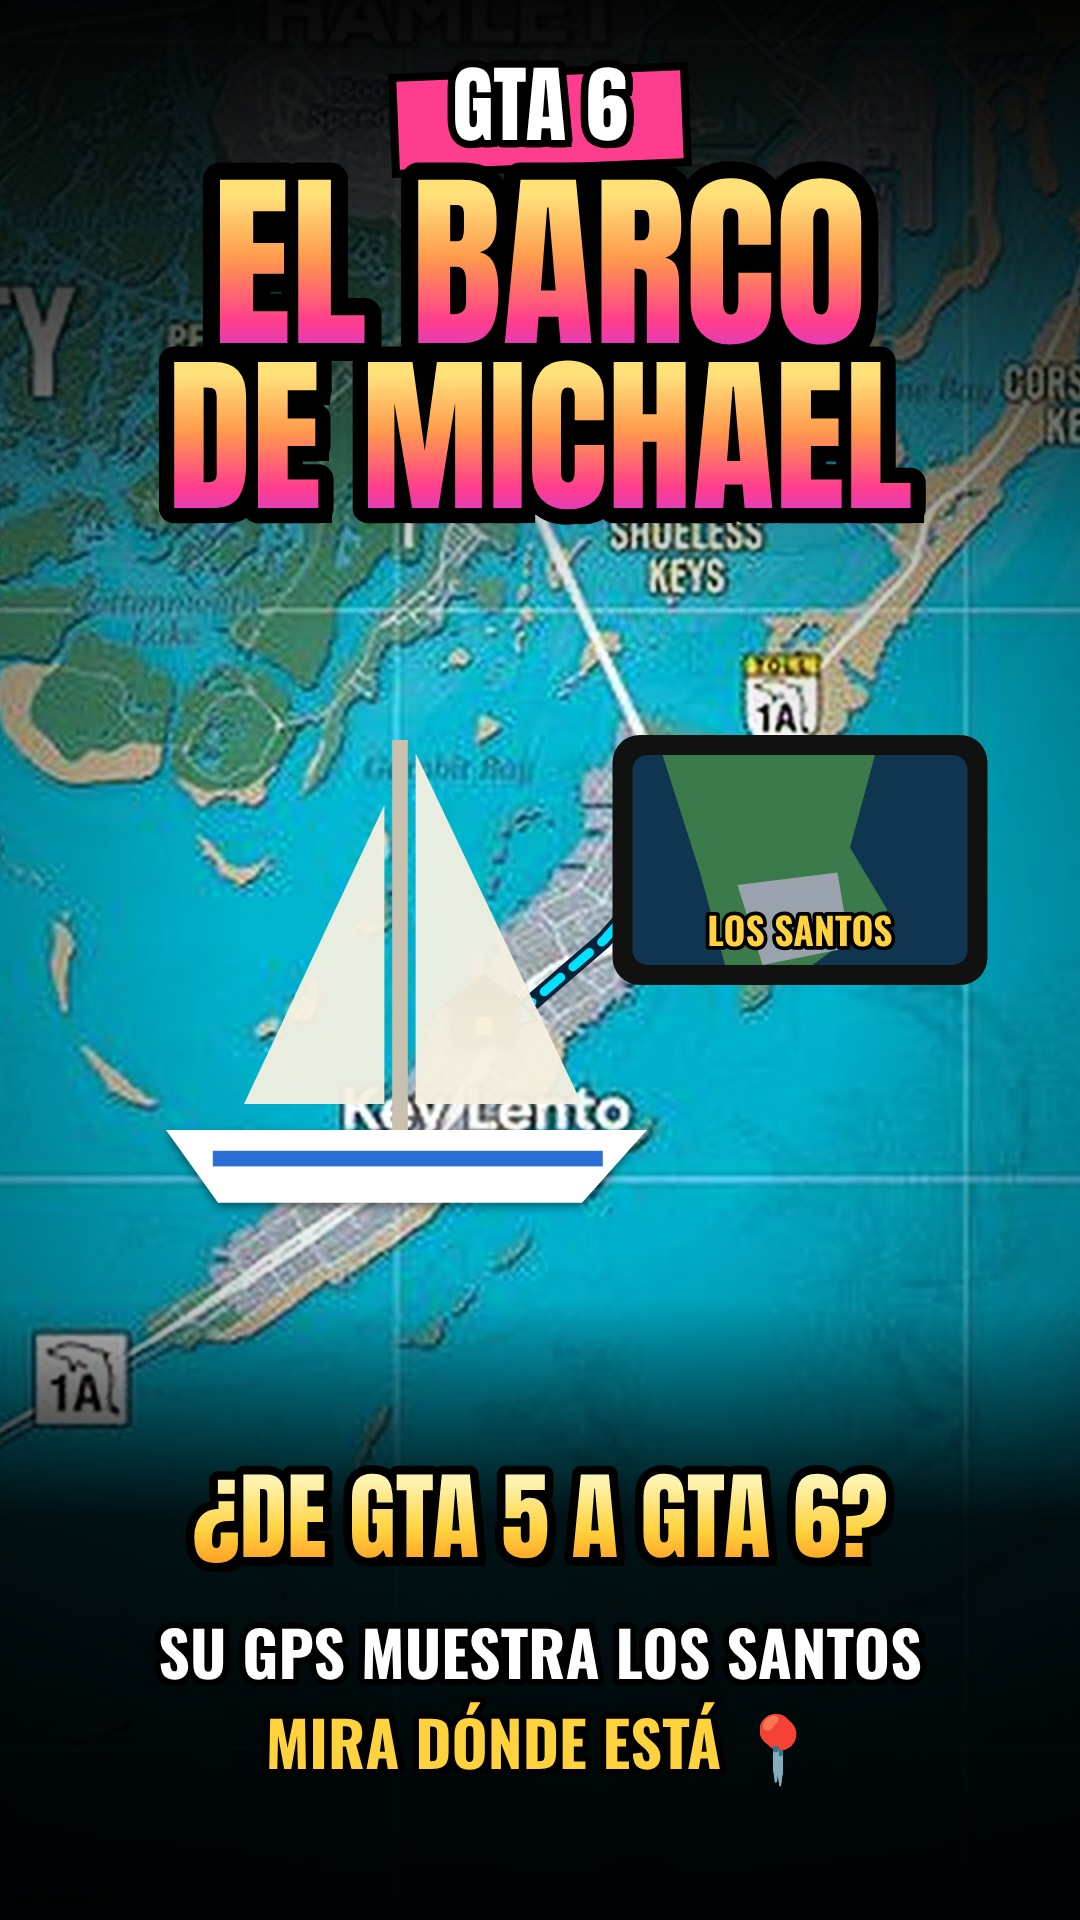
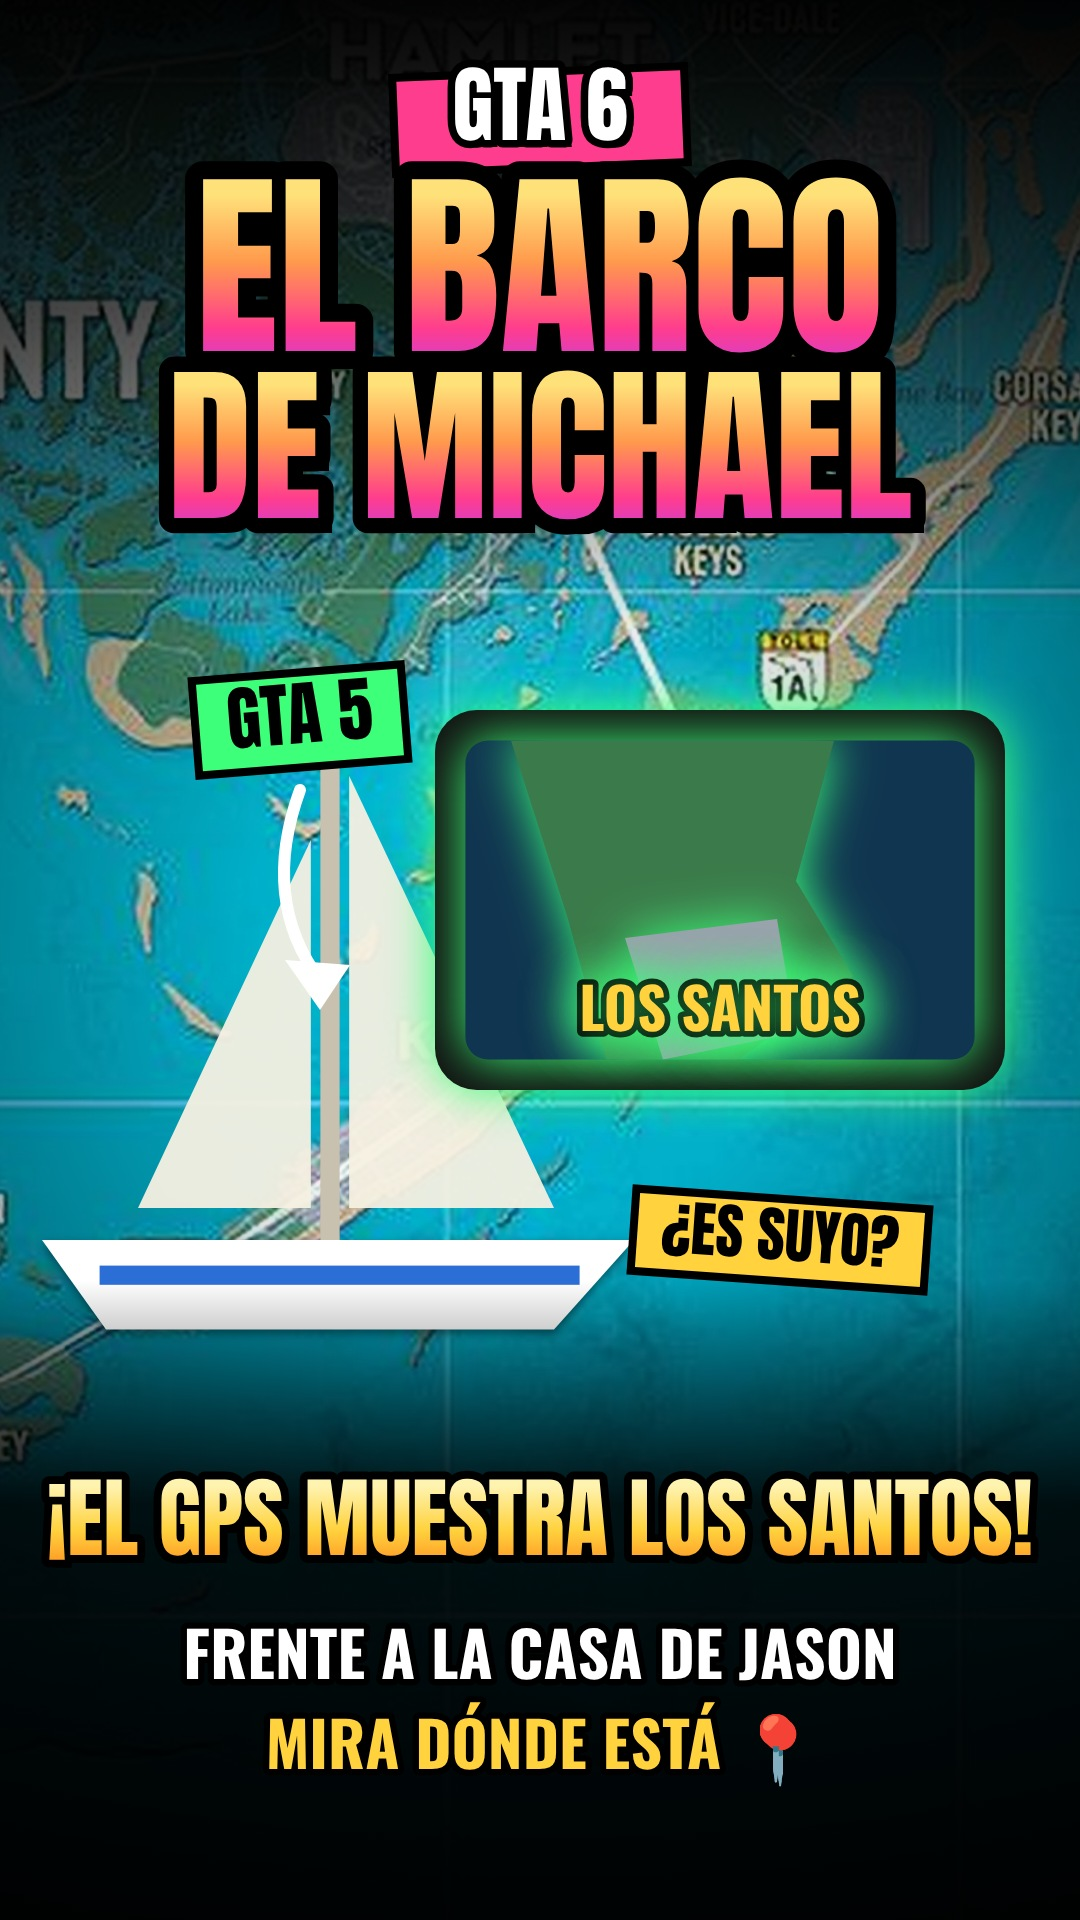
Rediseñar las portadas de Dexter, la torre de radio y el barco de Michael
Claude-Session: https://claude.ai/code/session_01JhfAMvS4QDrrdcmsQyrZs5

diff --git a/gta6/torre-radio/escenas.js b/gta6/torre-radio/escenas.js
@@ -99,21 +99,30 @@ function drawAnim(t) {
 }
 
 function drawCover() {
-  performance_t = 1; cam = { cx: 766, cy: 1190, s: 4.2 }; drawMap();
-  const v = x.createRadialGradient(W/2, H/2, 300, W/2, H/2, 1150); v.addColorStop(0, 'rgba(0,0,0,0)'); v.addColorStop(1, 'rgba(0,0,0,.8)');
-  x.fillStyle = v; x.fillRect(0, 0, W, H);
-  route([HAM, MID, [784, 1225], [TORRE[0] + 8, TORRE[1] + 6]], 1, CYAN);
-  const [tx, ty] = S(TORRE);
-  torre(TORRE, 2.4, 1);
-  nido(tx, ty - 640, 1.6, 1);
-  huevo(tx + 230, ty - 380, 2.6, '#ff5fa2', '#ffe17a', .5);
-  const g = x.createLinearGradient(0, 0, 0, 560); g.addColorStop(0, 'rgba(0,0,0,.92)'); g.addColorStop(1, 'rgba(0,0,0,0)'); x.fillStyle = g; x.fillRect(0, 0, W, 560);
-  x.save(); x.translate(W/2, 120); x.rotate(-.04); x.fillStyle = '#000'; x.fillRect(-150, -52, 300, 104); x.fillStyle = '#ff3d8e'; x.fillRect(-142, -44, 284, 88); x.restore();
-  glow('GTA 6', W/2, 116, 84, WHITE);
-  glow('HUEVO DE', W/2, 290, 190, PINK);
-  glow('PASCUA', W/2, 460, 190, PINK);
-  const g2 = x.createLinearGradient(0, H - 620, 0, H); g2.addColorStop(0, 'rgba(0,0,0,0)'); g2.addColorStop(.35, 'rgba(0,0,0,.85)'); g2.addColorStop(1, 'rgba(0,0,0,.95)'); x.fillStyle = g2; x.fillRect(0, H - 620, W, 620);
-  glow('EN LA TORRE MÁS ALTA', W/2, 1530, 92, GOLD, 1, ['#fff3b0', '#ffd23e', '#ff8a1e']);
-  text('Cinemática secreta', W/2, 1660, 62, WHITE);
-  text('Paso a paso 📍', W/2, 1750, 62, GOLD);
+  performance_t = 0.6; cam = { cx: 790, cy: 1150, s: 3.2 }; drawMap();
+  viñeta('rgba(0,0,0,.75)');
+  // cielo de atardecer sobre el mapa
+  const sky = x.createLinearGradient(0, 0, 0, H); sky.addColorStop(0, 'rgba(180,60,255,.35)'); sky.addColorStop(.5, 'rgba(255,61,142,.18)'); sky.addColorStop(1, 'rgba(255,154,77,0)');
+  x.fillStyle = sky; x.fillRect(0, 0, W, H);
+  // torre grande completa
+  x.save(); x.translate(380, 1420); x.scale(3.0, 3.0);
+  const h = 260;
+  x.shadowColor = 'rgba(0,0,0,.5)'; x.shadowBlur = 20;
+  for (let i = 0; i < 8; i++) {
+    const y0 = -i * h / 8, y1 = -(i + 1) * h / 8, w0 = 26 - i * 2.6, w1 = 26 - (i + 1) * 2.6;
+    x.fillStyle = i % 2 ? '#ffffff' : '#e8304a';
+    x.beginPath(); x.moveTo(-w0, y0); x.lineTo(w0, y0); x.lineTo(w1, y1); x.lineTo(-w1, y1); x.closePath(); x.fill();
+  }
+  x.shadowBlur = 0; x.restore();
+  // nido arriba con brillo
+  x.save(); x.shadowColor = '#ffe17a'; x.shadowBlur = 60; nido(380, 640, 1.5, 1); x.restore();
+  // huevo cayendo con estela
+  x.save(); x.strokeStyle = 'rgba(255,255,255,.8)'; x.lineWidth = 8; x.setLineDash([6, 18]);
+  x.beginPath(); x.moveTo(430, 640); x.quadraticCurveTo(720, 560, 790, 1020); x.stroke(); x.restore();
+  huevo(800, 1080, 4.2, '#ff5fa2', '#ffe17a', .5);
+  // reloj 7:00
+  x.save(); x.fillStyle = 'rgba(4,25,45,.92)'; rr(640, 1200, 330, 140, 30); x.fill(); x.strokeStyle = CYAN; x.lineWidth = 6; x.stroke(); x.restore();
+  glow('⏱ 7:00', 805, 1272, 84, WHITE);
+  portadaArriba('HUEVO DE', 'PASCUA', null, 210, 210);
+  portadaAbajo('EN LA TORRE MÁS ALTA', 'Cinemática secreta 🎬', 'Paso a paso 📍');
 }

diff --git a/gta6/dexter/escenas.js b/gta6/dexter/escenas.js
@@ -99,19 +99,24 @@ function drawAnim(t) {
 }
 
 function drawCover() {
-  performance_t = 1; cam = { cx: 1124, cy: 815, s: 4.6 }; drawMap();
-  const v = x.createRadialGradient(W/2, H/2, 300, W/2, H/2, 1150); v.addColorStop(0, 'rgba(0,0,0,0)'); v.addColorStop(1, 'rgba(0,0,0,.8)');
-  x.fillStyle = v; x.fillRect(0, 0, W, H);
-  route([VC, PEN, WI], 1, CYAN); edificio(APT, 1.4, 1);
-  x.save(); x.fillStyle = 'rgba(120,0,0,.25)'; x.fillRect(0, 0, W, H); x.restore();
-  kitDexter(560, 1180, 3.4, 1);
-  const g = x.createLinearGradient(0, 0, 0, 560); g.addColorStop(0, 'rgba(0,0,0,.92)'); g.addColorStop(1, 'rgba(0,0,0,0)'); x.fillStyle = g; x.fillRect(0, 0, W, 560);
-  x.save(); x.translate(W/2, 120); x.rotate(-.04); x.fillStyle = '#000'; x.fillRect(-150, -52, 300, 104); x.fillStyle = '#ff3d8e'; x.fillRect(-142, -44, 284, 88); x.restore();
-  glow('GTA 6', W/2, 116, 84, WHITE);
-  glow('DEXTER', W/2, 300, 240, PINK, 1, ['#ffffff', '#ff6b6b', '#c4001a']);
-  glow('ESTÁ AQUÍ', W/2, 480, 150, PINK);
-  const g2 = x.createLinearGradient(0, H - 620, 0, H); g2.addColorStop(0, 'rgba(0,0,0,0)'); g2.addColorStop(.35, 'rgba(0,0,0,.85)'); g2.addColorStop(1, 'rgba(0,0,0,.95)'); x.fillStyle = g2; x.fillRect(0, H - 620, W, 620);
-  glow('🔪 SU DEPARTAMENTO', W/2, 1530, 96, GOLD, 1, ['#fff3b0', '#ffd23e', '#ff8a1e']);
-  text('Ruta exacta en el mapa', W/2, 1660, 62, WHITE);
-  text('Paso a paso 📍', W/2, 1750, 62, GOLD);
+  performance_t = 1; cam = { cx: 1128, cy: 812, s: 6.2 }; drawMap();
+  night(1.6); viñeta('rgba(0,0,0,.85)', 'rgba(150,0,10,.28)');
+  // edificio grande con la ventana marcada
+  x.save(); x.translate(W/2, 1080);
+  x.shadowColor = 'rgba(0,0,0,.6)'; x.shadowBlur = 40;
+  x.fillStyle = '#efe2c8'; x.fillRect(-300, -380, 600, 380);
+  x.shadowBlur = 0; x.fillStyle = '#ff7a59'; x.fillRect(-320, -400, 640, 26);
+  for (let r = 0; r < 3; r++) for (let c = 0; c < 5; c++) {
+    const hi = r === 1 && c === 0;
+    x.fillStyle = hi ? '#ffd23e' : '#1d4f68'; if (hi) { x.shadowColor = '#ffd23e'; x.shadowBlur = 50; }
+    x.fillRect(-262 + c * 108, -345 + r * 112, 66, 80); x.shadowBlur = 0;
+  }
+  x.strokeStyle = '#ff1a1a'; x.lineWidth = 12; x.shadowColor = '#ff1a1a'; x.shadowBlur = 30;
+  x.beginPath(); x.arc(-229, -193, 82, 0, 7); x.stroke();
+  x.restore();
+  sello(760, 760, 64, .08, '#ffd23e', 'SU PUERTA');
+  cuchilloRojo(830, 1180, 2.6, .5);
+  kitDexter(250, 1230, 2.0, 1);
+  portadaArriba('DEXTER', 'ESTÁ AQUÍ', ['#ffffff', '#ff6b6b', '#c4001a'], 240, 150);
+  portadaAbajo('TRINITY APARTMENTS', 'Ruta exacta en el mapa', 'Paso a paso 📍');
 }

diff --git a/gta6/motor/motor.js b/gta6/motor/motor.js
@@ -331,3 +331,43 @@ function etiqueta(p, s, dx, dy, color, a) {   // texto pegado a un punto del map
 }
 
 window.draw = T => drawAnim(warp(T));
+
+// ---------- portadas ----------
+function viñeta(color = 'rgba(0,0,0,.8)', tinte = null) {
+  const v = x.createRadialGradient(W/2, H/2, 260, W/2, H/2, 1150); v.addColorStop(0, 'rgba(0,0,0,0)'); v.addColorStop(1, color);
+  x.fillStyle = v; x.fillRect(0, 0, W, H);
+  if (tinte) { x.fillStyle = tinte; x.fillRect(0, 0, W, H); }
+}
+function portadaArriba(l1, l2, grad = null, s1 = 210, s2 = 190) {
+  const g = x.createLinearGradient(0, 0, 0, 600); g.addColorStop(0, 'rgba(0,0,0,.94)'); g.addColorStop(1, 'rgba(0,0,0,0)');
+  x.fillStyle = g; x.fillRect(0, 0, W, 600);
+  x.save(); x.translate(W/2, 120); x.rotate(-.04); x.fillStyle = '#000'; x.fillRect(-150, -52, 300, 104); x.fillStyle = '#ff3d8e'; x.fillRect(-142, -44, 284, 88); x.restore();
+  glow('GTA 6', W/2, 116, 84, WHITE);
+  glow(l1, W/2, 295, s1, PINK, 1, grad);
+  if (l2) glow(l2, W/2, 470, s2, PINK, 1, grad);
+}
+function portadaAbajo(grande, l1, l2, grad = ['#fff3b0', '#ffd23e', '#ff8a1e']) {
+  const g = x.createLinearGradient(0, H - 640, 0, H); g.addColorStop(0, 'rgba(0,0,0,0)'); g.addColorStop(.35, 'rgba(0,0,0,.86)'); g.addColorStop(1, 'rgba(0,0,0,.96)');
+  x.fillStyle = g; x.fillRect(0, H - 640, W, 640);
+  glow(grande, W/2, 1530, grande.length > 16 ? 88 : 100, GOLD, 1, grad);
+  text(l1, W/2, 1660, 62, WHITE);
+  text(l2, W/2, 1750, 62, GOLD);
+}
+function sello(px, py, s, rot, color, txt) {   // etiqueta tipo sticker
+  x.save(); x.translate(px, py); x.rotate(rot);
+  x.font = `${s}px ${FT}`; const w = x.measureText(txt).width + s * .8;
+  x.fillStyle = '#000'; x.fillRect(-w/2 - 8, -s * .62 - 8, w + 16, s * 1.24 + 16);
+  x.fillStyle = color; x.fillRect(-w/2, -s * .62, w, s * 1.24);
+  x.fillStyle = '#000'; x.textAlign = 'center'; x.textBaseline = 'middle'; x.fillText(txt, 0, s * .05);
+  x.restore();
+}
+function cuchilloRojo(px, py, s, rot) {
+  x.save(); x.translate(px, py); x.rotate(rot); x.scale(s, s);
+  x.shadowColor = '#ff1a1a'; x.shadowBlur = 40;
+  x.fillStyle = '#e9edf2'; x.beginPath(); x.moveTo(0, -80); x.quadraticCurveTo(18, -20, 11, 10); x.lineTo(-11, 10); x.quadraticCurveTo(-8, -30, 0, -80); x.fill();
+  x.shadowBlur = 0; x.fillStyle = '#c4001a';
+  x.beginPath(); x.moveTo(-6, -40); x.quadraticCurveTo(0, -20, 6, -5); x.lineTo(-4, -5); x.closePath(); x.fill();
+  x.beginPath(); x.ellipse(2, 30, 4, 9, 0, 0, 7); x.fill();
+  x.fillStyle = '#222'; x.fillRect(-22, 10, 44, 9); x.fillRect(-8, 19, 16, 44);
+  x.restore();
+}

diff --git a/gta6/barco-michael/escenas.js b/gta6/barco-michael/escenas.js
@@ -74,19 +74,18 @@ function drawAnim(t) {
 }
 
 function drawCover() {
-  performance_t = 1; cam = { cx: 790, cy: 1520, s: 4.0 }; drawMap();
-  const v = x.createRadialGradient(W/2, H/2, 300, W/2, H/2, 1150); v.addColorStop(0, 'rgba(0,0,0,0)'); v.addColorStop(1, 'rgba(0,0,0,.8)');
-  x.fillStyle = v; x.fillRect(0, 0, W, H);
-  route(RUTA, 1, CYAN); house(CASA, 1.4);
-  velero(400, 1130, 2.6, 1);
-  pantallaLS(800, 860, 1.25, 1);
-  const g = x.createLinearGradient(0, 0, 0, 560); g.addColorStop(0, 'rgba(0,0,0,.92)'); g.addColorStop(1, 'rgba(0,0,0,0)'); x.fillStyle = g; x.fillRect(0, 0, W, 560);
-  x.save(); x.translate(W/2, 120); x.rotate(-.04); x.fillStyle = '#000'; x.fillRect(-150, -52, 300, 104); x.fillStyle = '#ff3d8e'; x.fillRect(-142, -44, 284, 88); x.restore();
-  glow('GTA 6', W/2, 116, 84, WHITE);
-  glow('EL BARCO', W/2, 290, 190, PINK);
-  glow('DE MICHAEL', W/2, 460, 170, PINK);
-  const g2 = x.createLinearGradient(0, H - 620, 0, H); g2.addColorStop(0, 'rgba(0,0,0,0)'); g2.addColorStop(.35, 'rgba(0,0,0,.85)'); g2.addColorStop(1, 'rgba(0,0,0,.95)'); x.fillStyle = g2; x.fillRect(0, H - 620, W, 620);
-  glow('¿DE GTA 5 A GTA 6?', W/2, 1530, 96, GOLD, 1, ['#fff3b0', '#ffd23e', '#ff8a1e']);
-  text('Su GPS muestra Los Santos', W/2, 1660, 62, WHITE);
-  text('Mira dónde está 📍', W/2, 1750, 62, GOLD);
+  performance_t = 1; cam = { cx: 780, cy: 1535, s: 3.6 }; drawMap();
+  viñeta('rgba(0,0,0,.8)');
+  // velero grande a la izquierda
+  velero(330, 1240, 3.2, 1);
+  // GPS grande a la derecha con Los Santos
+  x.save(); x.shadowColor = '#3dff7a'; x.shadowBlur = 50; pantallaLS(720, 900, 1.9, 1); x.restore();
+  // flecha de GTA 5 a GTA 6
+  sello(300, 720, 70, -.08, '#3dff7a', 'GTA 5');
+  x.save(); x.strokeStyle = '#fff'; x.lineWidth = 12; x.lineCap = 'round';
+  x.beginPath(); x.moveTo(300, 790); x.quadraticCurveTo(260, 900, 320, 980); x.stroke();
+  x.fillStyle = '#fff'; x.beginPath(); x.moveTo(320, 1010); x.lineTo(285, 960); x.lineTo(350, 965); x.closePath(); x.fill(); x.restore();
+  sello(780, 1240, 60, .07, '#ffd23e', '¿ES SUYO?');
+  portadaArriba('EL BARCO', 'DE MICHAEL', null, 200, 170);
+  portadaAbajo('¡EL GPS MUESTRA LOS SANTOS!', 'Frente a la casa de Jason', 'Mira dónde está 📍');
 }
